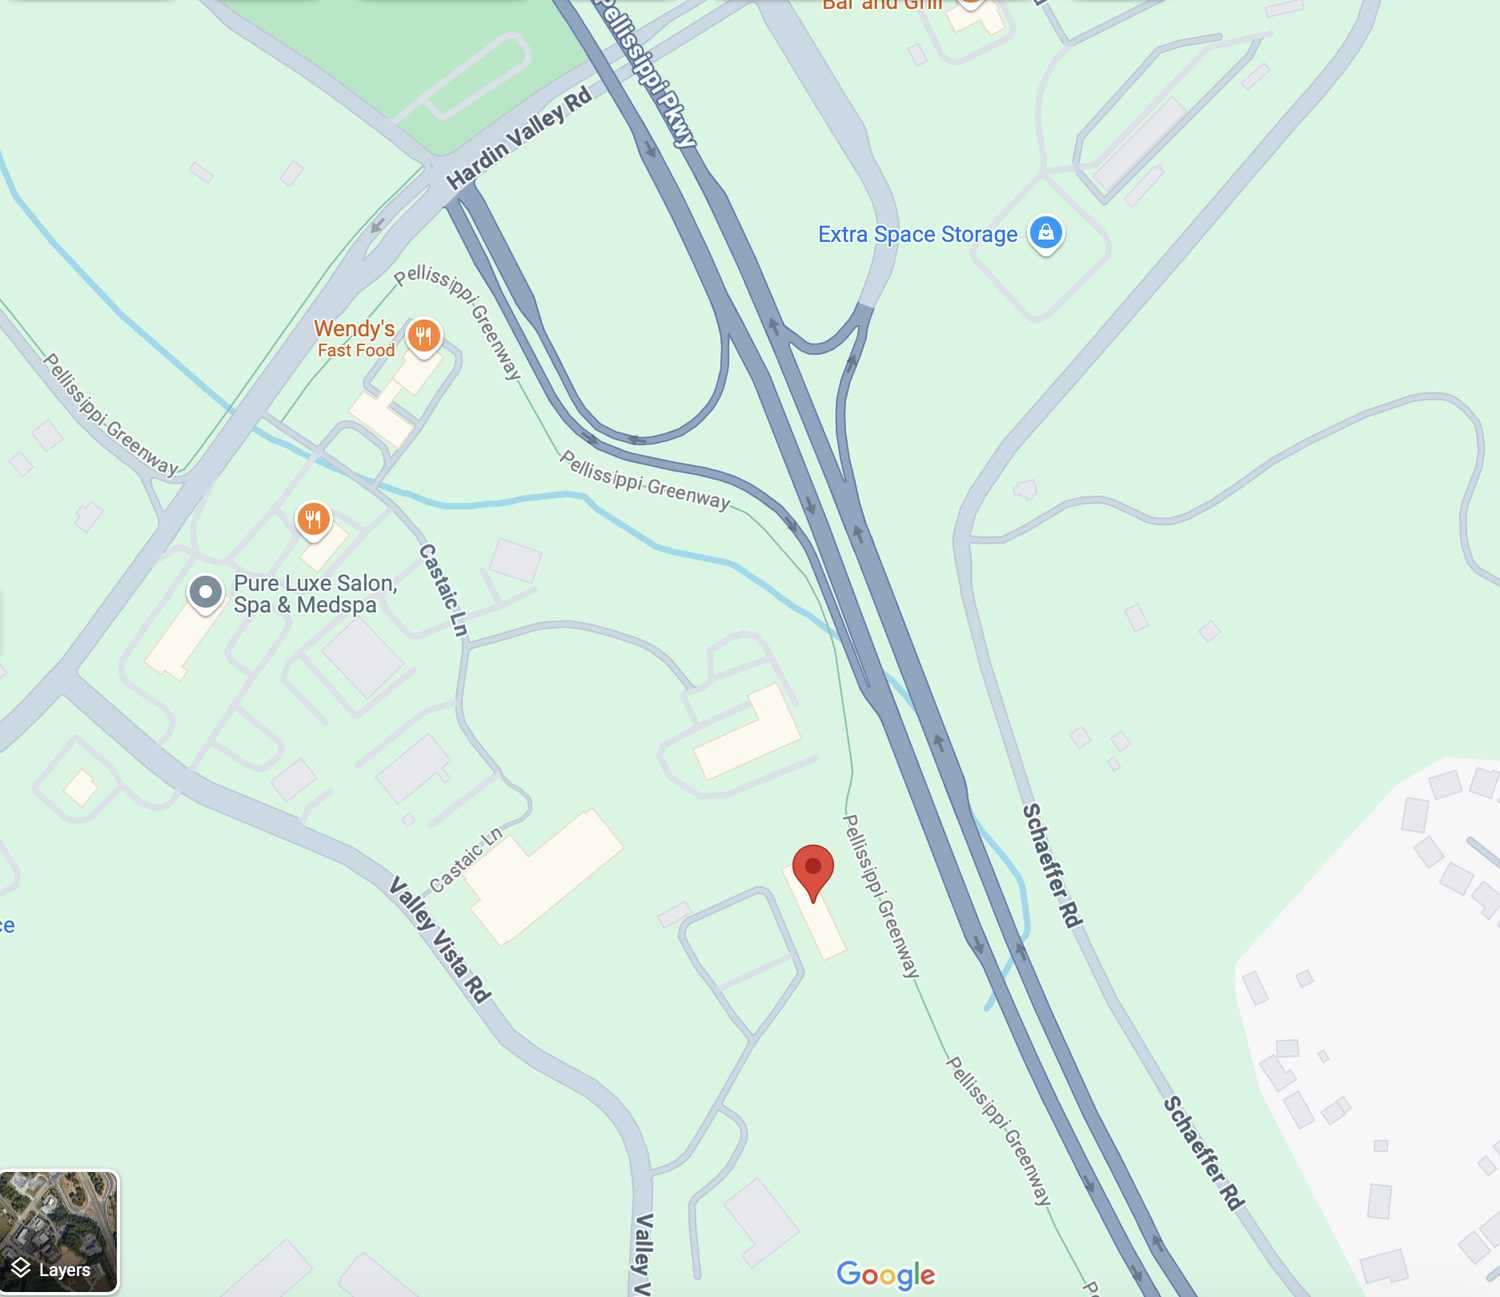
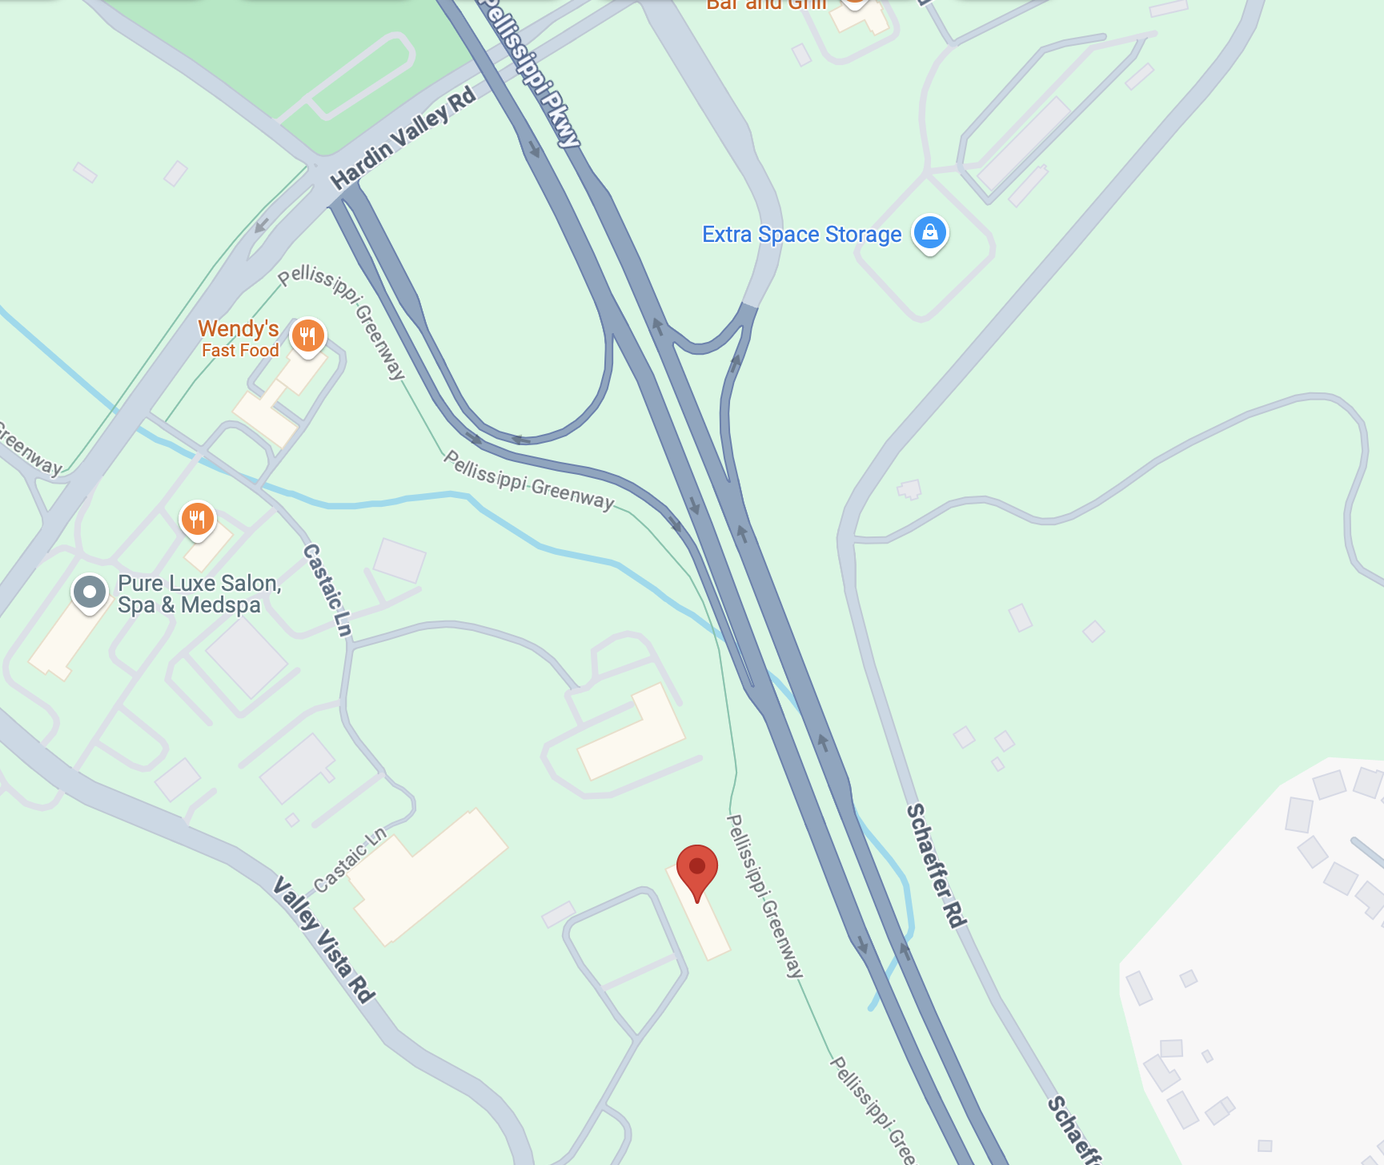
quicksave

diff --git a/btd_react/src/componets/StoreInfo.jsx b/btd_react/src/componets/StoreInfo.jsx
@@ -2,24 +2,28 @@ import Container from 'react-bootstrap/Container';
 import ListGroup from 'react-bootstrap/ListGroup';
 import Row from 'react-bootstrap/Row';
 import Col from 'react-bootstrap/Col';
+import Card from 'react-bootstrap/Card';
+
+import StoreMap from './../assets/map_cap.png'
 
 
 
 
-export default function StoreHours()
+export default function StoreInfo()
 {
 
 
 
     return(
         <>
+            <h1>The When and Where</h1>
             <Container className='m-5 p-auto'id='storeHours'>
                 <ListGroup>
 
                     <ListGroup.Item>
                         <Row>
                             <Col>
-                                <h3>Hours of Operation</h3>
+                                <h3>Storefront Hours</h3>
                             </Col>
                         </Row>
                     </ListGroup.Item>
@@ -103,6 +107,13 @@ export default function StoreHours()
 
                 </ListGroup>
             </Container>
+
+            <Container className='m-5 p-auto'id='storeAddress'>
+                <Card>
+                    <Card.Img variant='top' src={StoreMap}/>
+                    <Card.Title></Card.Title>
+                </Card>Storefront Location
+            </Container>
         </>
     )
 }
@@ -119,4 +130,7 @@ export default function StoreHours()
         </Col>
     </Row>
     </ListGroup.Item>
+
+
+    https://www.google.com/maps/dir/35.8950022,-84.1962554/10700+Virginia+Pine+Way,+Knoxville,+TN+37932/@35.9200054,-84.2182576,13z/data=!3m1!4b1!4m9!4m8!1m1!4e1!1m5!1m1!1s0x885c2e27af961b3d:0x5375b639c2a4aeb4!2m2!1d-84.1561482!2d35.9452135?entry=ttu&g_ep=EgoyMDI1MDUyMS4wIKXMDSoJLDEwMjExNDUzSAFQAw%3D%3D
 */

diff --git a/btd_react/src/pages/FindUs.jsx b/btd_react/src/pages/FindUs.jsx
@@ -1,4 +1,4 @@
-import StoreHours from "../componets/StoreHours";
+import StoreInfo from "../componets/StoreInfo.jsx";
 import NavigationMenu from './../componets/NavigationMenu.jsx';
 
 
@@ -11,7 +11,7 @@ export default function FindUs()
     return(
         <>
         <NavigationMenu/>
-            <StoreHours/>
+        <StoreInfo/>
         </>
         
     )

diff --git a/btd_react/src/App.jsx b/btd_react/src/App.jsx
@@ -7,6 +7,7 @@ import Homepage from "./pages/Homepage.jsx";
 import AboutUs from "./pages/AboutUs.jsx";
 import FindUs from "./pages/FindUs.jsx";
 import EasterPreorder from "./pages/EasterPreorder.jsx";
+import './App.css';
 
 
 

diff --git a/btd_react/src/App.css b/btd_react/src/App.css
@@ -1,0 +1,3 @@
+.mapLinks{
+    color:black;
+}
